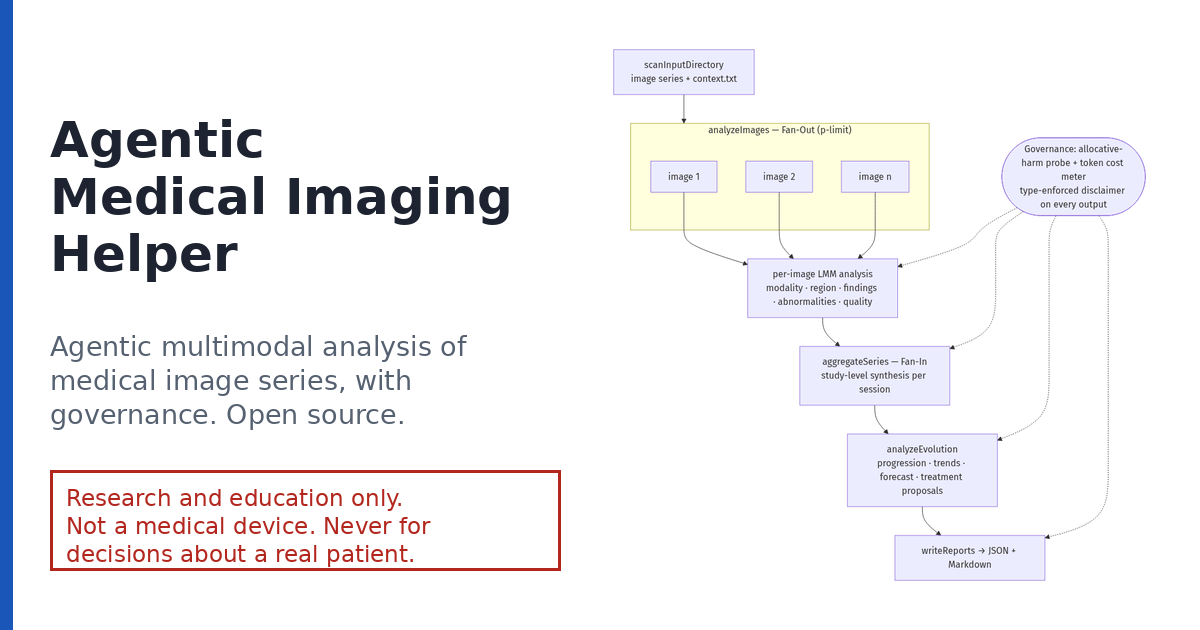
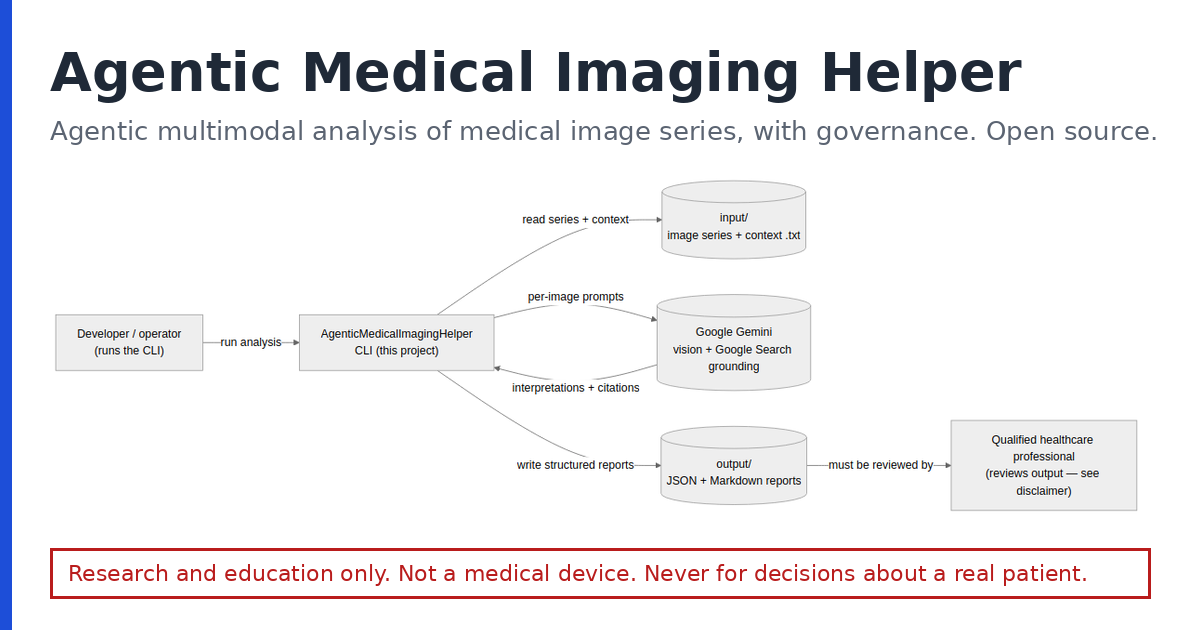
Docs: system context diagram on the website, social card and README

diff --git a/site/index.html b/site/index.html
@@ -17,7 +17,7 @@
 <meta property="og:image" content="https://andreibesleaga.github.io/AgenticMedicalImagingHelper/img/og.png">
 <meta property="og:image:width" content="1200">
 <meta property="og:image:height" content="630">
-<meta property="og:image:alt" content="AgenticMedicalImagingHelper: the fan-out, fan-in analysis pipeline with a governance layer, and the notice that it is for research and education only and is not a medical device">
+<meta property="og:image:alt" content="AgenticMedicalImagingHelper: the system context diagram (operator, CLI, image series, AI model, reports reviewed by a qualified healthcare professional) and the notice that it is for research and education only and is not a medical device">
 <meta name="twitter:card" content="summary_large_image">
 <meta name="twitter:title" content="AgenticMedicalImagingHelper - Research CLI">
 <meta name="twitter:description" content="Open-source research CLI that analyses medical image series with LangGraph.js agents. Research and education only; not a medical device.">
@@ -194,14 +194,14 @@ npm run dev -- analyze ./input ./output --concurrency 3 --verbose</code></pre>
 
 <h2 id="how">How it works</h2>
 <figure class="fig">
-<div class="panel"><a href="img/pipeline.webp"><img src="img/pipeline.webp" width="938" height="937" alt="Flow diagram: scanInputDirectory feeds a fan-out of per-image analyses, which fan in to aggregateSeries, then analyzeEvolution, then writeReports to JSON and Markdown. A governance layer (allocative-harm probe, token cost meter, type-enforced disclaimer) is attached to every step." style="max-height:34rem;width:auto"></a></div>
-<figcaption>Pipeline: images are analysed in parallel, merged per session, compared across sessions, then written as reports. Governance applies to every step. Select the image for full size.</figcaption>
+<div class="panel"><a href="img/context.webp"><img src="img/context.webp" width="1184" height="370" alt="System context diagram: an operator runs the CLI, which reads a series folder, sends per-image prompts to Google Gemini and writes JSON and Markdown reports that a qualified healthcare professional must review."></a></div>
+<figcaption>Context: the operator, the CLI, the model provider and the mandatory human review of reports (drawn when Gemini was the only provider). Select the image for full size.</figcaption>
 </figure>
 <details>
 <summary>More architecture diagrams</summary>
 <figure class="fig">
-<div class="panel"><a href="img/context.webp"><img src="img/context.webp" width="1184" height="370" alt="System context diagram: an operator runs the CLI, which reads a series folder, sends per-image prompts to Google Gemini and writes JSON and Markdown reports that a qualified healthcare professional must review."></a></div>
-<figcaption>Context: the operator, the CLI, the model provider and the mandatory human review of reports.</figcaption>
+<div class="panel"><a href="img/pipeline.webp"><img src="img/pipeline.webp" width="938" height="937" alt="Flow diagram: scanInputDirectory feeds a fan-out of per-image analyses, which fan in to aggregateSeries, then analyzeEvolution, then writeReports to JSON and Markdown. A governance layer (allocative-harm probe, token cost meter, type-enforced disclaimer) is attached to every step." style="max-height:34rem;width:auto"></a></div>
+<figcaption>Pipeline: images are analysed in parallel, merged per session, compared across sessions, then written as reports. Governance applies to every step.</figcaption>
 </figure>
 <figure class="fig">
 <div class="panel"><a href="img/components.webp"><img src="img/components.webp" width="1184" height="875" alt="Component diagram of the hexagonal source layout: main calls the LangGraph adapter, which uses application use-cases, which use domain and infrastructure modules, on top of zod, the Google generative-ai SDK, LangGraph and p-limit."></a></div>
@@ -211,7 +211,7 @@ npm run dev -- analyze ./input ./output --concurrency 3 --verbose</code></pre>
 <div class="panel"><a href="img/runtime.webp"><img src="img/runtime.webp" width="366" height="916" alt="Runtime activity diagram: scan the input folder, fan out per image, fan in, aggregate series, analyse evolution, write reports." style="max-height:30rem;width:auto"></a></div>
 <figcaption>Runtime: fan-out, fan-in, evolution, reports.</figcaption>
 </figure>
-<p class="small">The context, components and runtime diagrams were drawn when Gemini was the only provider; read them as predating the OpenRouter and local adapters (<a href="https://github.com/andreibesleaga/AgenticMedicalImagingHelper/blob/main/docs/architecture/decisions/ADR-006-openrouter-second-provider.md">ADR-006</a>).</p>
+<p class="small">The components and runtime diagrams, like the context diagram above, were drawn when Gemini was the only provider; read them as predating the OpenRouter and local adapters (<a href="https://github.com/andreibesleaga/AgenticMedicalImagingHelper/blob/main/docs/architecture/decisions/ADR-006-openrouter-second-provider.md">ADR-006</a>).</p>
 </details>
 
 <h2 id="uses">Use cases</h2>

diff --git a/scripts/make-og-image.py b/scripts/make-og-image.py
@@ -1,0 +1,59 @@
+#!/usr/bin/env python3
+"""Rebuild the website's social preview card, site/img/og.png (1200 x 630).
+
+The card shows the project name, one line on what it is, the system context
+diagram (docs/context.png) and the research-only notice. Run it from the
+repository root after changing any of them:
+
+    python3 scripts/make-og-image.py
+
+Needs Pillow and the DejaVu Sans fonts (Debian/Ubuntu: fonts-dejavu-core).
+"""
+from pathlib import Path
+
+from PIL import Image, ImageDraw, ImageFont
+
+ROOT = Path(__file__).resolve().parent.parent
+DIAGRAM = ROOT / "docs" / "context.png"
+OUT = ROOT / "site" / "img" / "og.png"
+FONTS = Path("/usr/share/fonts/truetype/dejavu")
+
+WIDTH, HEIGHT = 1200, 630
+MARGIN = 50
+INK, MUTED, ACCENT, WARN = "#1f2937", "#5b6472", "#1d4ed8", "#b91c1c"
+
+TITLE = "Agentic Medical Imaging Helper"
+SUBTITLE = "Agentic multimodal analysis of medical image series, with governance. Open source."
+NOTICE = "Research and education only. Not a medical device. Never for decisions about a real patient."
+
+
+def font(name: str, size: int) -> ImageFont.FreeTypeFont:
+    return ImageFont.truetype(str(FONTS / name), size)
+
+
+def paste_diagram(card: Image.Image, top: int, bottom: int) -> None:
+    """Scale the diagram to the free band between top and bottom, centred."""
+    diagram = Image.open(DIAGRAM).convert("RGB")
+    box_w, box_h = WIDTH - 2 * MARGIN, bottom - top
+    scale = min(box_w / diagram.width, box_h / diagram.height)
+    size = (round(diagram.width * scale), round(diagram.height * scale))
+    diagram = diagram.resize(size, Image.LANCZOS)
+    card.paste(diagram, ((WIDTH - size[0]) // 2, top + (box_h - size[1]) // 2))
+
+
+def main() -> None:
+    card = Image.new("RGB", (WIDTH, HEIGHT), "white")
+    draw = ImageDraw.Draw(card)
+    draw.rectangle([0, 0, 11, HEIGHT], fill=ACCENT)
+    draw.text((MARGIN, 40), TITLE, font=font("DejaVuSans-Bold.ttf", 54), fill=INK)
+    draw.text((MARGIN, 115), SUBTITLE, font=font("DejaVuSans.ttf", 26), fill=MUTED)
+    paste_diagram(card, top=170, bottom=525)
+    notice_font = font("DejaVuSans.ttf", 22)
+    draw.rectangle([MARGIN, 548, WIDTH - MARGIN, 598], outline=WARN, width=3)
+    draw.text((MARGIN + 18, 560), NOTICE, font=notice_font, fill=WARN)
+    card.save(OUT, optimize=True)
+    print(f"wrote {OUT.relative_to(ROOT)} ({WIDTH} x {HEIGHT})")
+
+
+if __name__ == "__main__":
+    main()

diff --git a/README.md b/README.md
@@ -18,6 +18,8 @@ See [`docs/PRODUCT.md`](./docs/PRODUCT.md) for the unified PRD / SPEC / user sto
 
 ![Screenshot](./docs/screenshot.png)
 
+![System context: an operator runs the CLI, which reads the image series and context files, sends per-image prompts to the AI model, and writes structured reports that a qualified healthcare professional must review](./docs/context.png)
+
 ---
 
 ## Publications & citation
